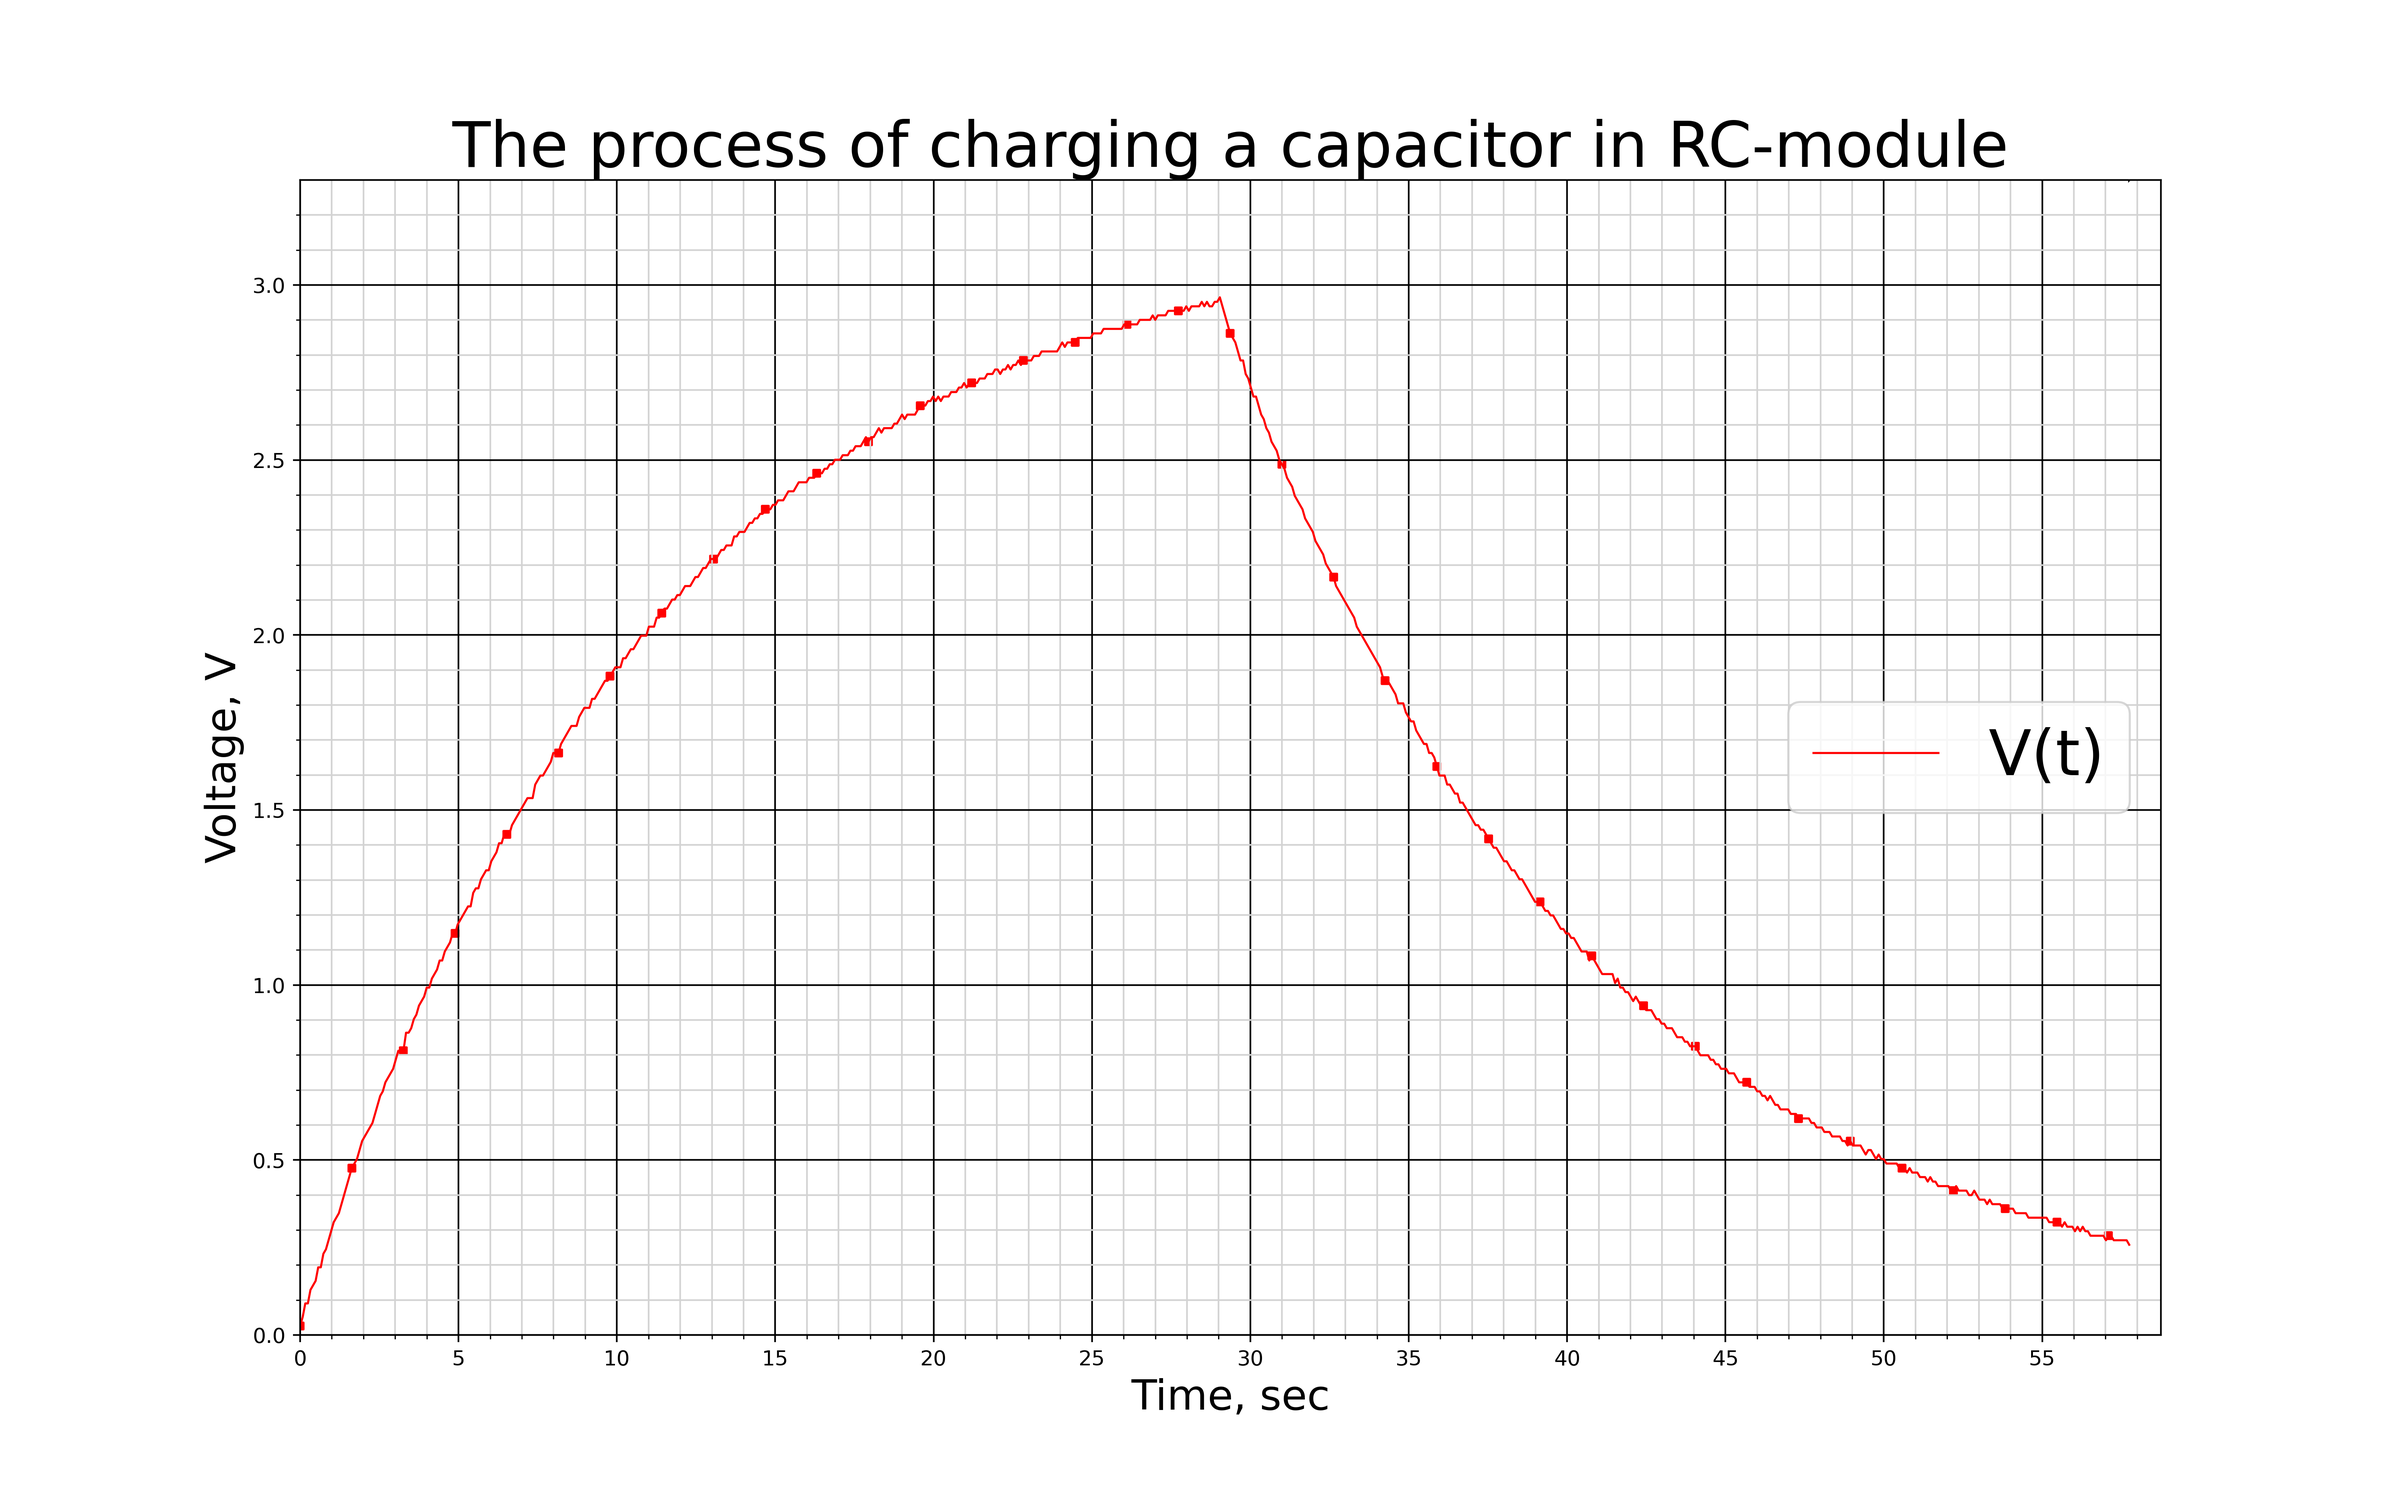
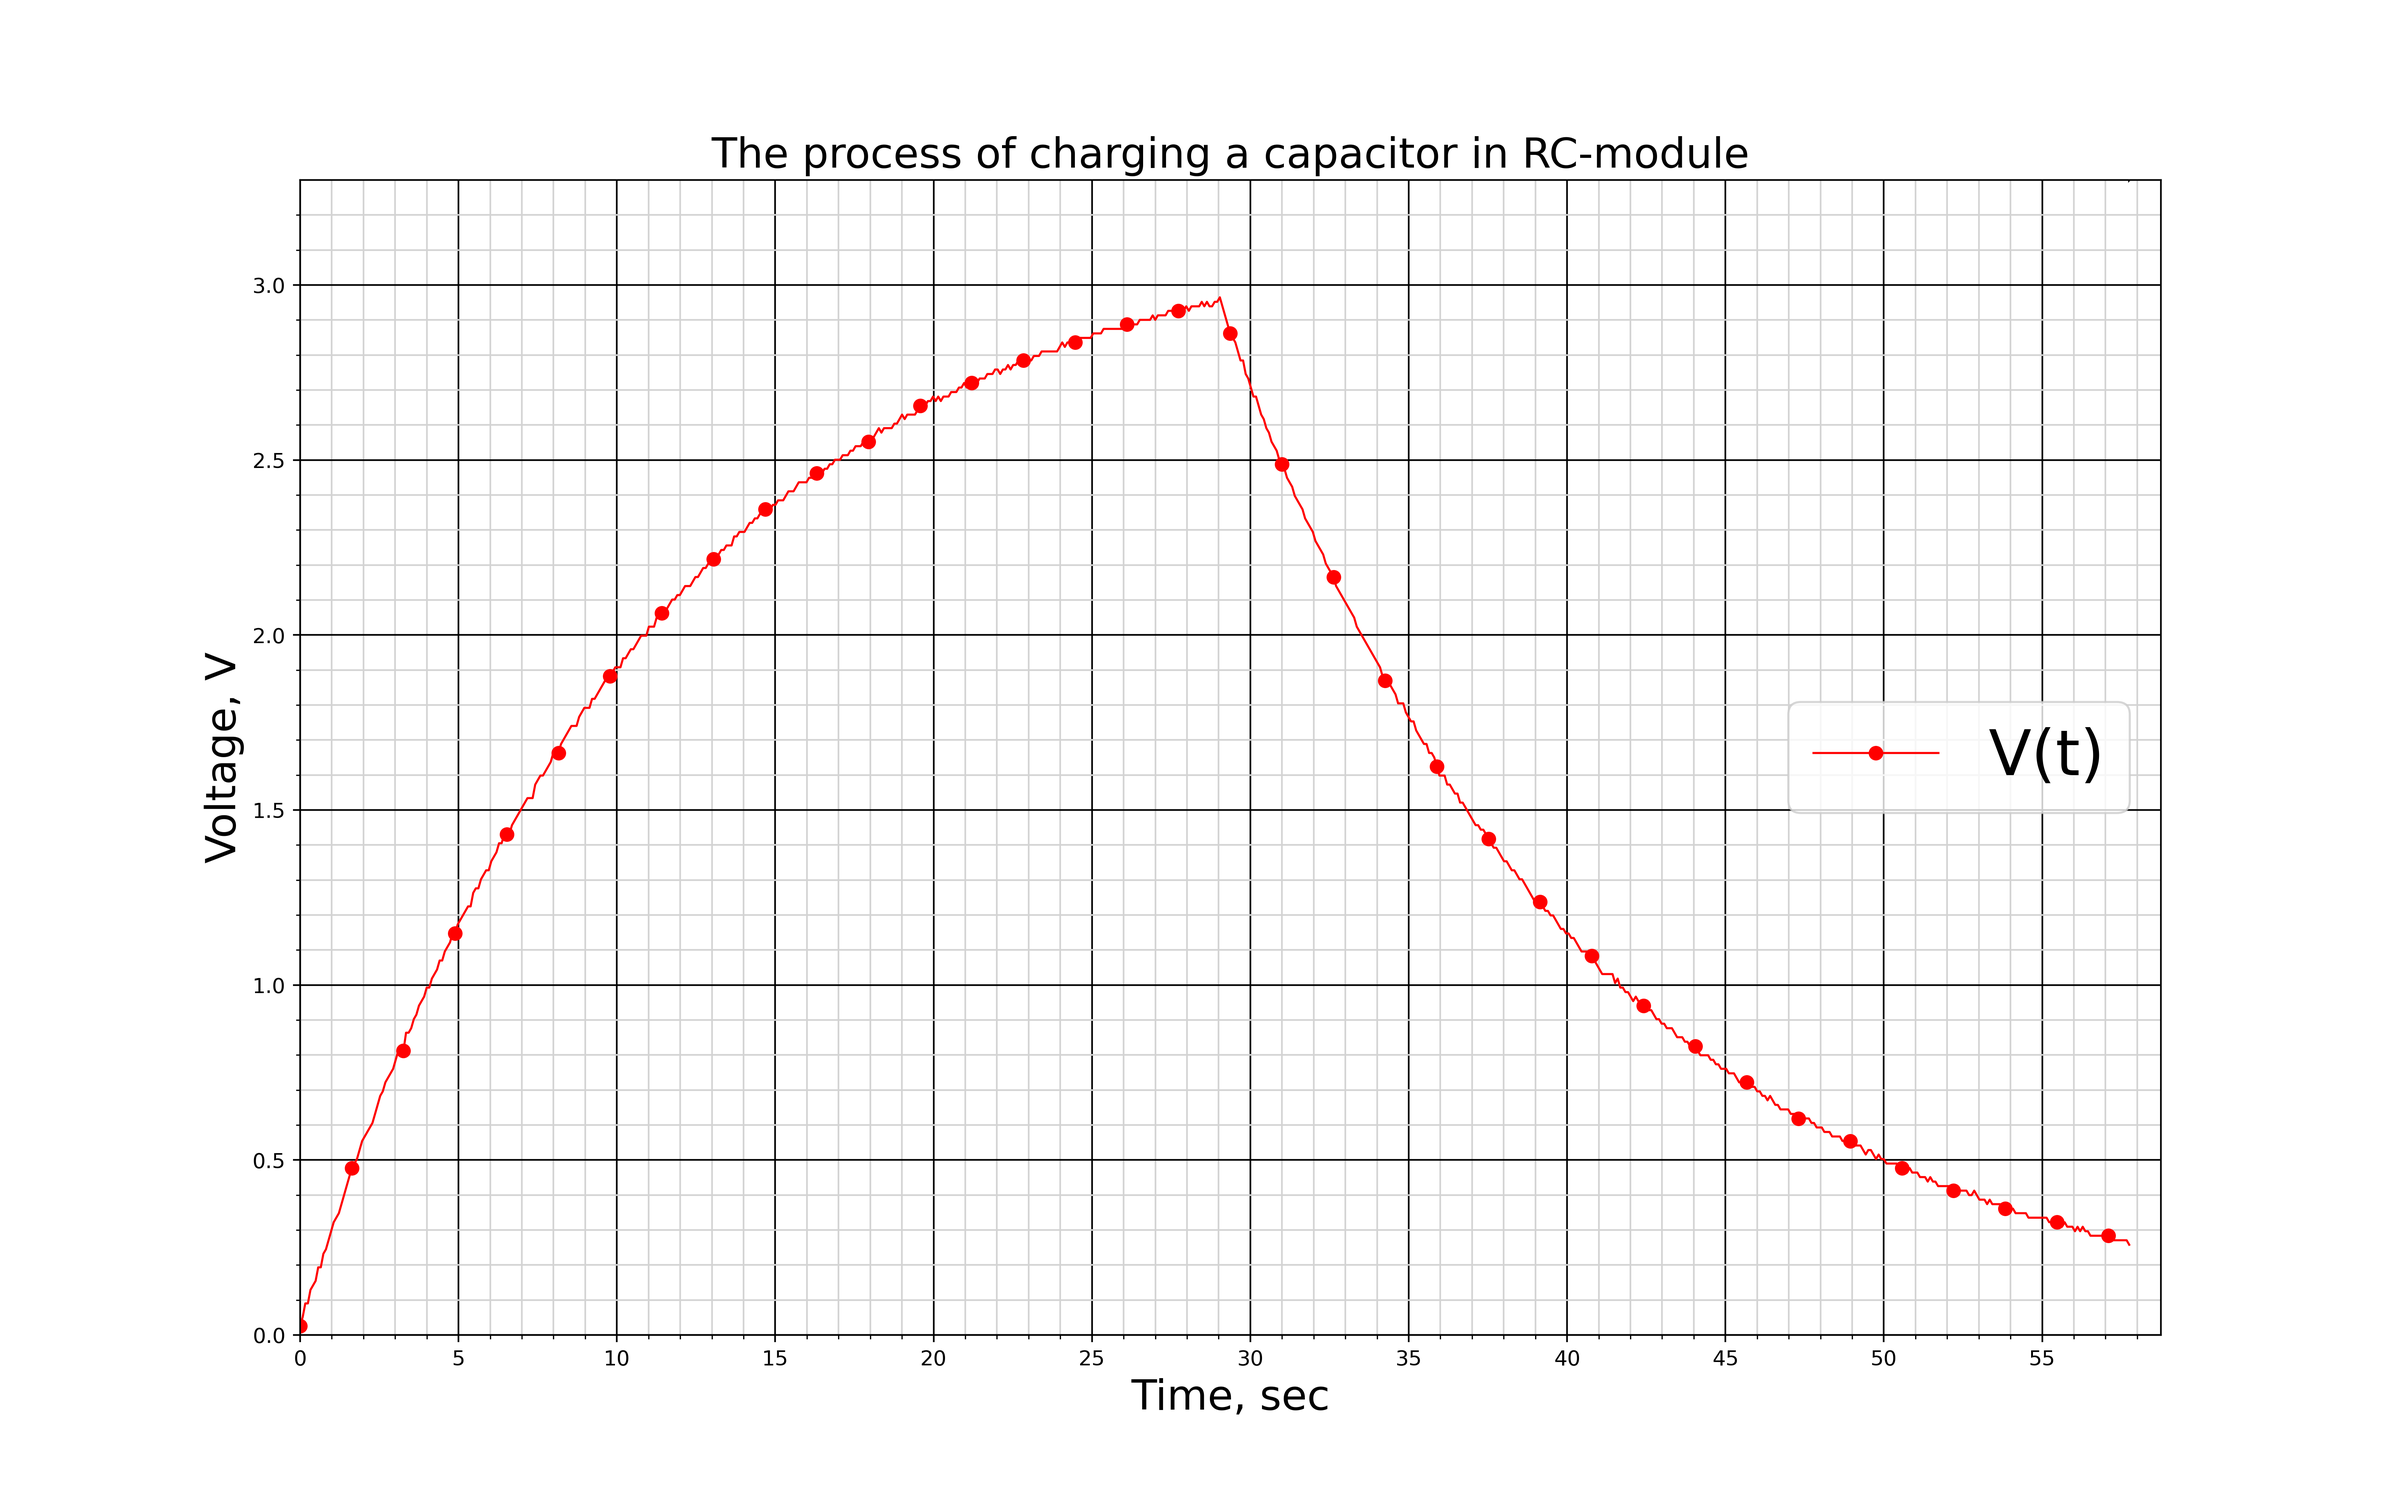
Graph fixed

Changed region(s): [[0.1875, 0.0625, 0.8438, 0.125]]

diff --git a/Lesson8_Graph/data_processing.py b/Lesson8_Graph/data_processing.py
@@ -30,9 +30,9 @@ axes.minorticks_on()
 axes.grid(which='major', color = 'k')
 axes.grid(which='minor', color = 'lightgray')
 
-axes.set_title("The process of charging a capacitor in RC-module", loc = "center", fontsize=30)
+axes.set_title("The process of charging a capacitor in RC-module", loc = "center", fontsize=20)
 
-axes.plot(time_arr, data_arr, c='red', linewidth=1, label="V(t)")
+axes.plot(time_arr, data_arr, c='red', linewidth=1, label="V(t)", marker='o', markevery = 20)
 axes.arrow(time_arr.max(), 3.3, 1, 0.1)
 axes.scatter(time_arr[0:num_measures:20], data_arr[0:num_measures:20], marker='s', c='red', s=10)
 axes.legend(shadow = False, loc = 'right', fontsize = 30)
